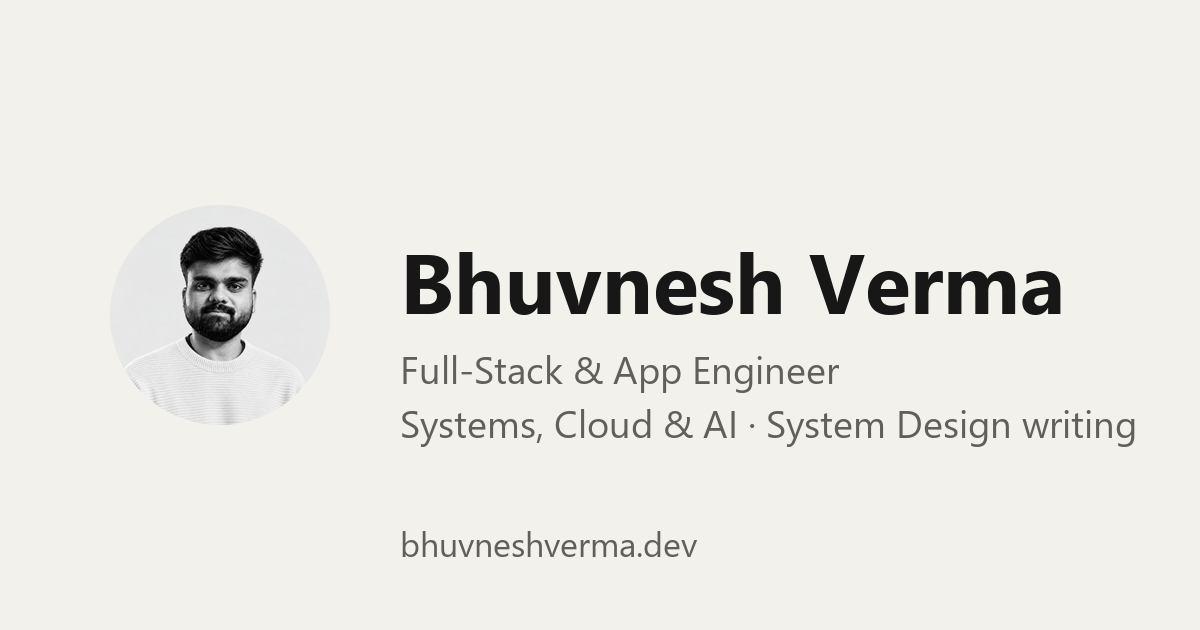
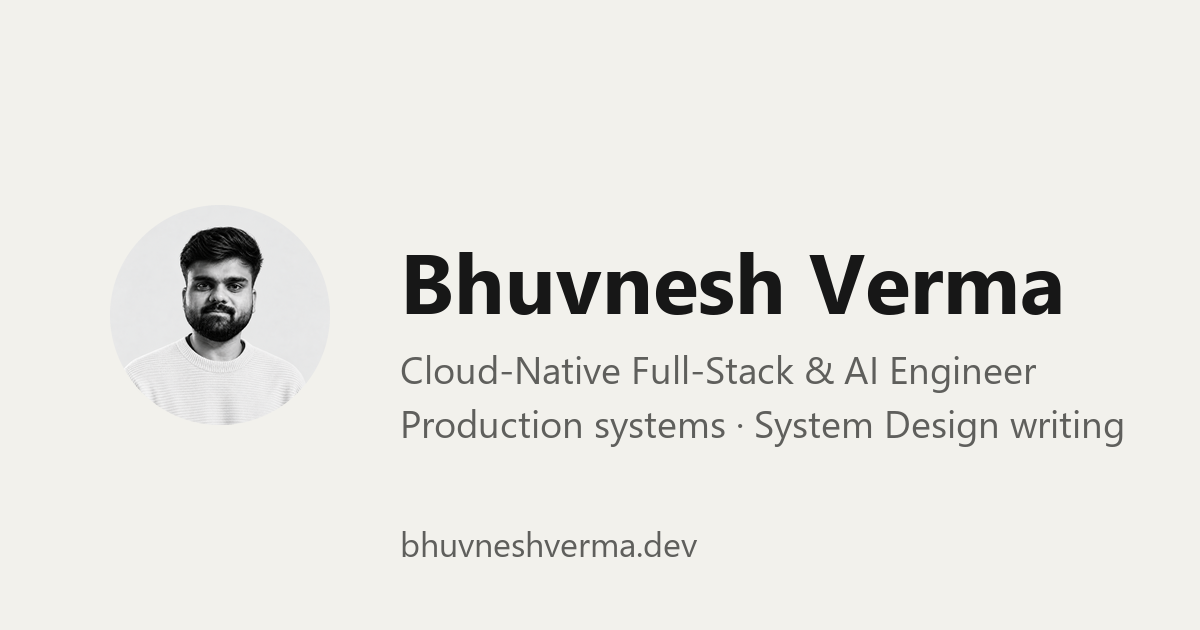
seo: Cloud-Native Full-Stack & AI Engineer positioning in jobTitle, OG card, alt text

Changed region(s): [[0.3392, 0.573, 0.9558, 0.7238]]

diff --git a/src/data/site-config.ts b/src/data/site-config.ts
@@ -8,7 +8,7 @@ const siteConfig: SiteConfig = {
         'I design, build, and scale reliable systems used by real people. I work across web, mobile, cloud, and AI, automating repetitive work so teams ship faster, and making sure what goes live is stable and ready to grow.',
     image: {
         src: '/og.png',
-        alt: 'Bhuvnesh Verma — Full-Stack & App Engineer'
+        alt: 'Bhuvnesh Verma · Cloud-Native Full-Stack & AI Engineer'
     },
     headerNavLinks: [
         {
